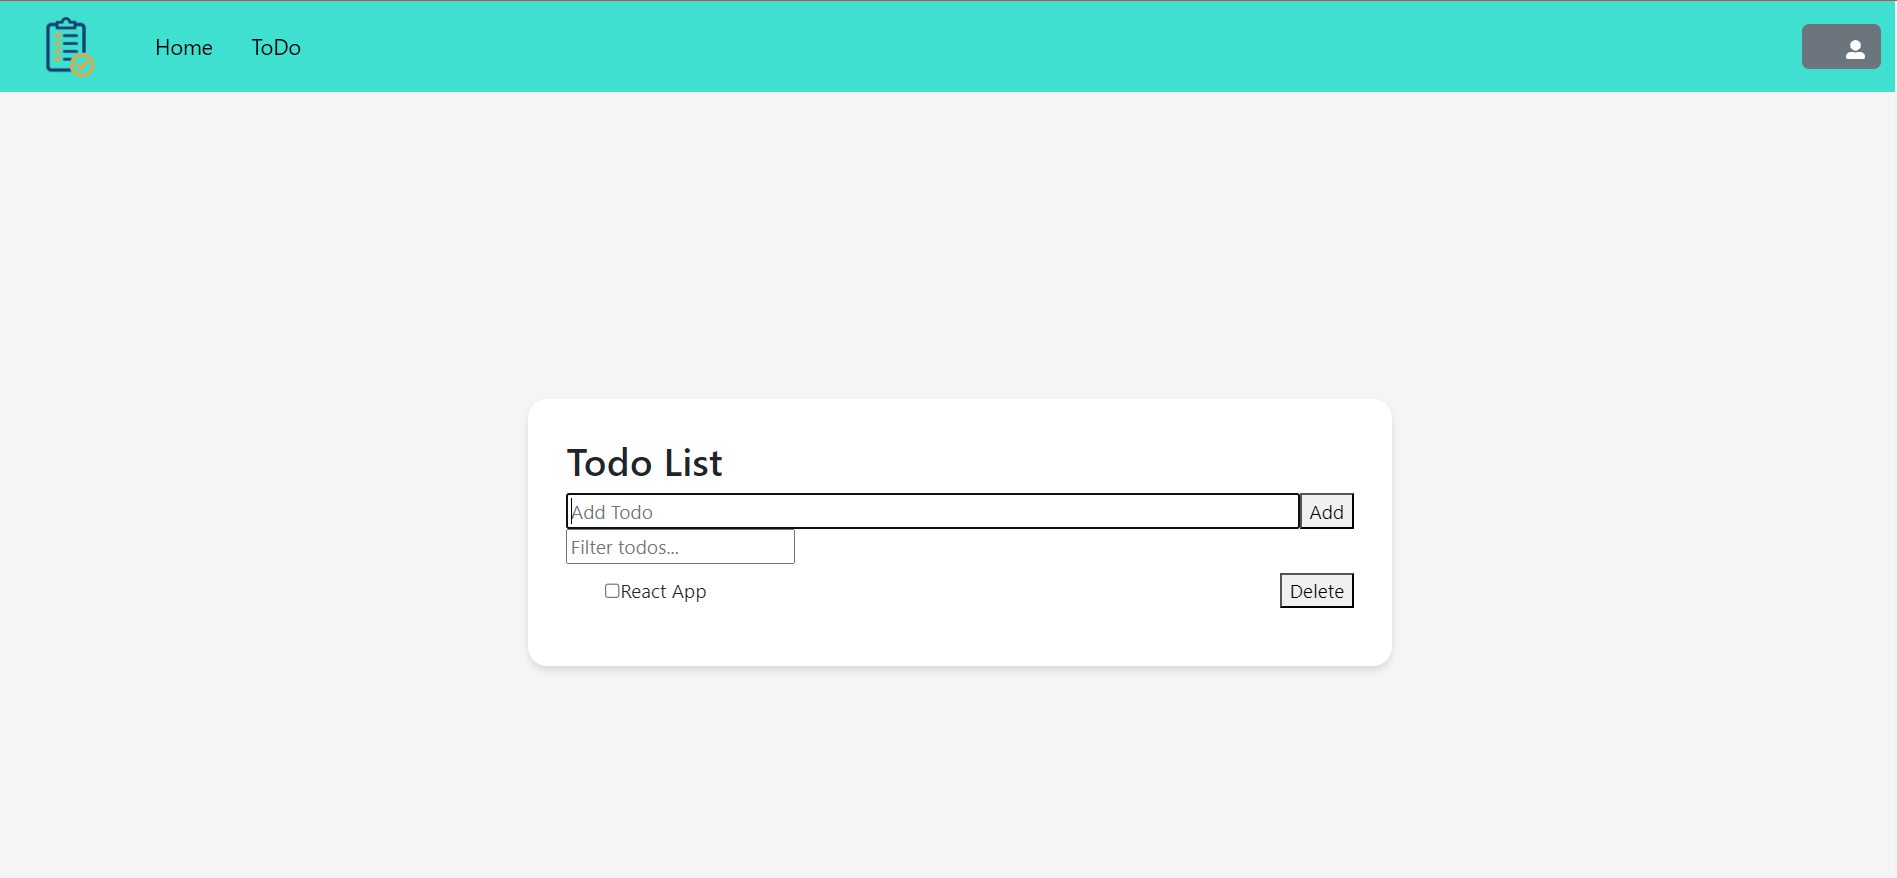
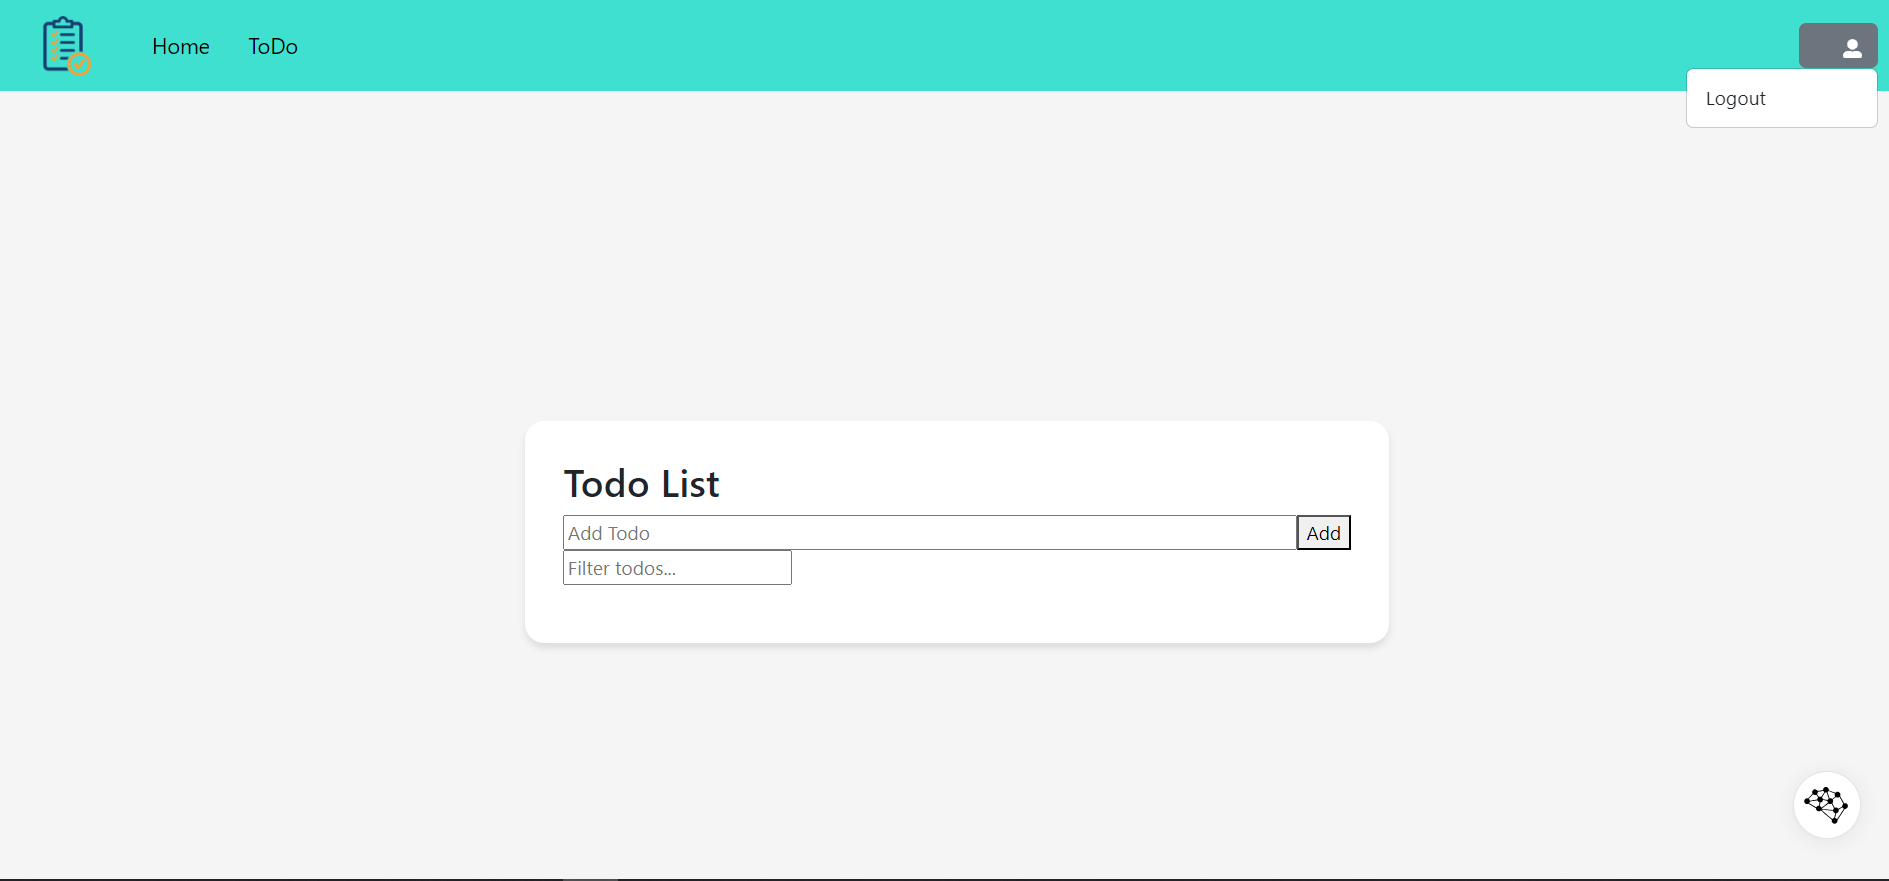
first

diff --git a/frontend/src/Navbar.js b/frontend/src/Navbar.js
@@ -53,7 +53,7 @@ const CustomNavbar = () => {
                       <FaUserAlt style={{width:"10px !important", color:"white", marginLeft:"1.5rem"}} />
                     </DropdownToggle>
                     <DropdownMenu>
-                      <DropdownItem tag={Link} to="/profile">Profile</DropdownItem>
+        
                       <DropdownItem onClick={handleLogout}>Logout</DropdownItem>
                     </DropdownMenu>
                   </Dropdown>

diff --git a/README.md b/README.md
@@ -15,6 +15,6 @@ It is a react application where users who register and log in can access their o
 
 ![page view4](./login-home.PNG)
 
-* And you will be able to edit your artol todos page.
+* And now you will be able to edit your todos page, you will be able to successfully log out of your profile.
 
 ![page view5](./todo.PNG)
